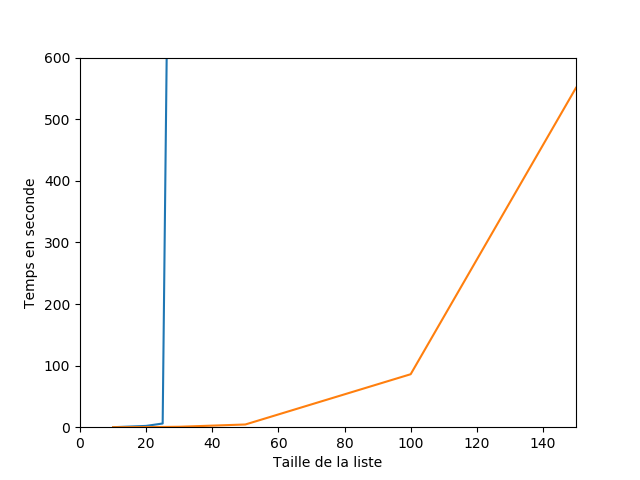
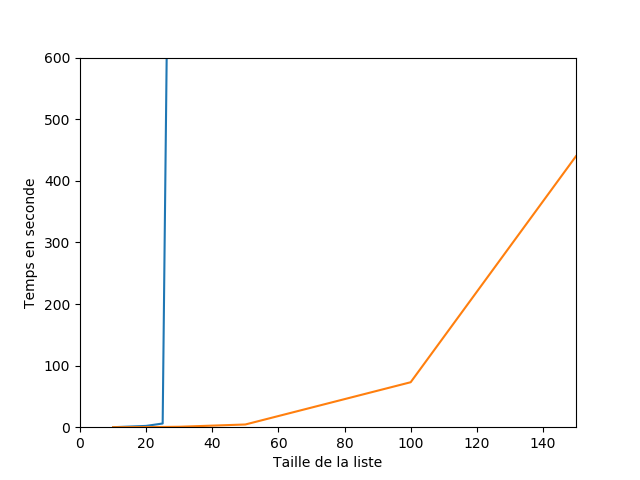
affichage des bons resultats

diff --git a/resultat.py b/resultat.py
@@ -7,7 +7,7 @@ import matplotlib.pyplot as plt
 def main() :
     time = [10, 20, 25, 30, 50, 100, 150]
     Brute_Force = [0, 2.1, 6.0, 60*41, 60*41, 60*41, 60*41]
-    LLL = [0.03, 0.2, 0.4, 0.7, 4.4, 86, 551]
+    LLL = [0.03, 0.2, 0.4, 0.7, 4.4, 73, 440]
 
     plt.xlabel("Taille de la liste")
     plt.ylabel("Temps en seconde")
